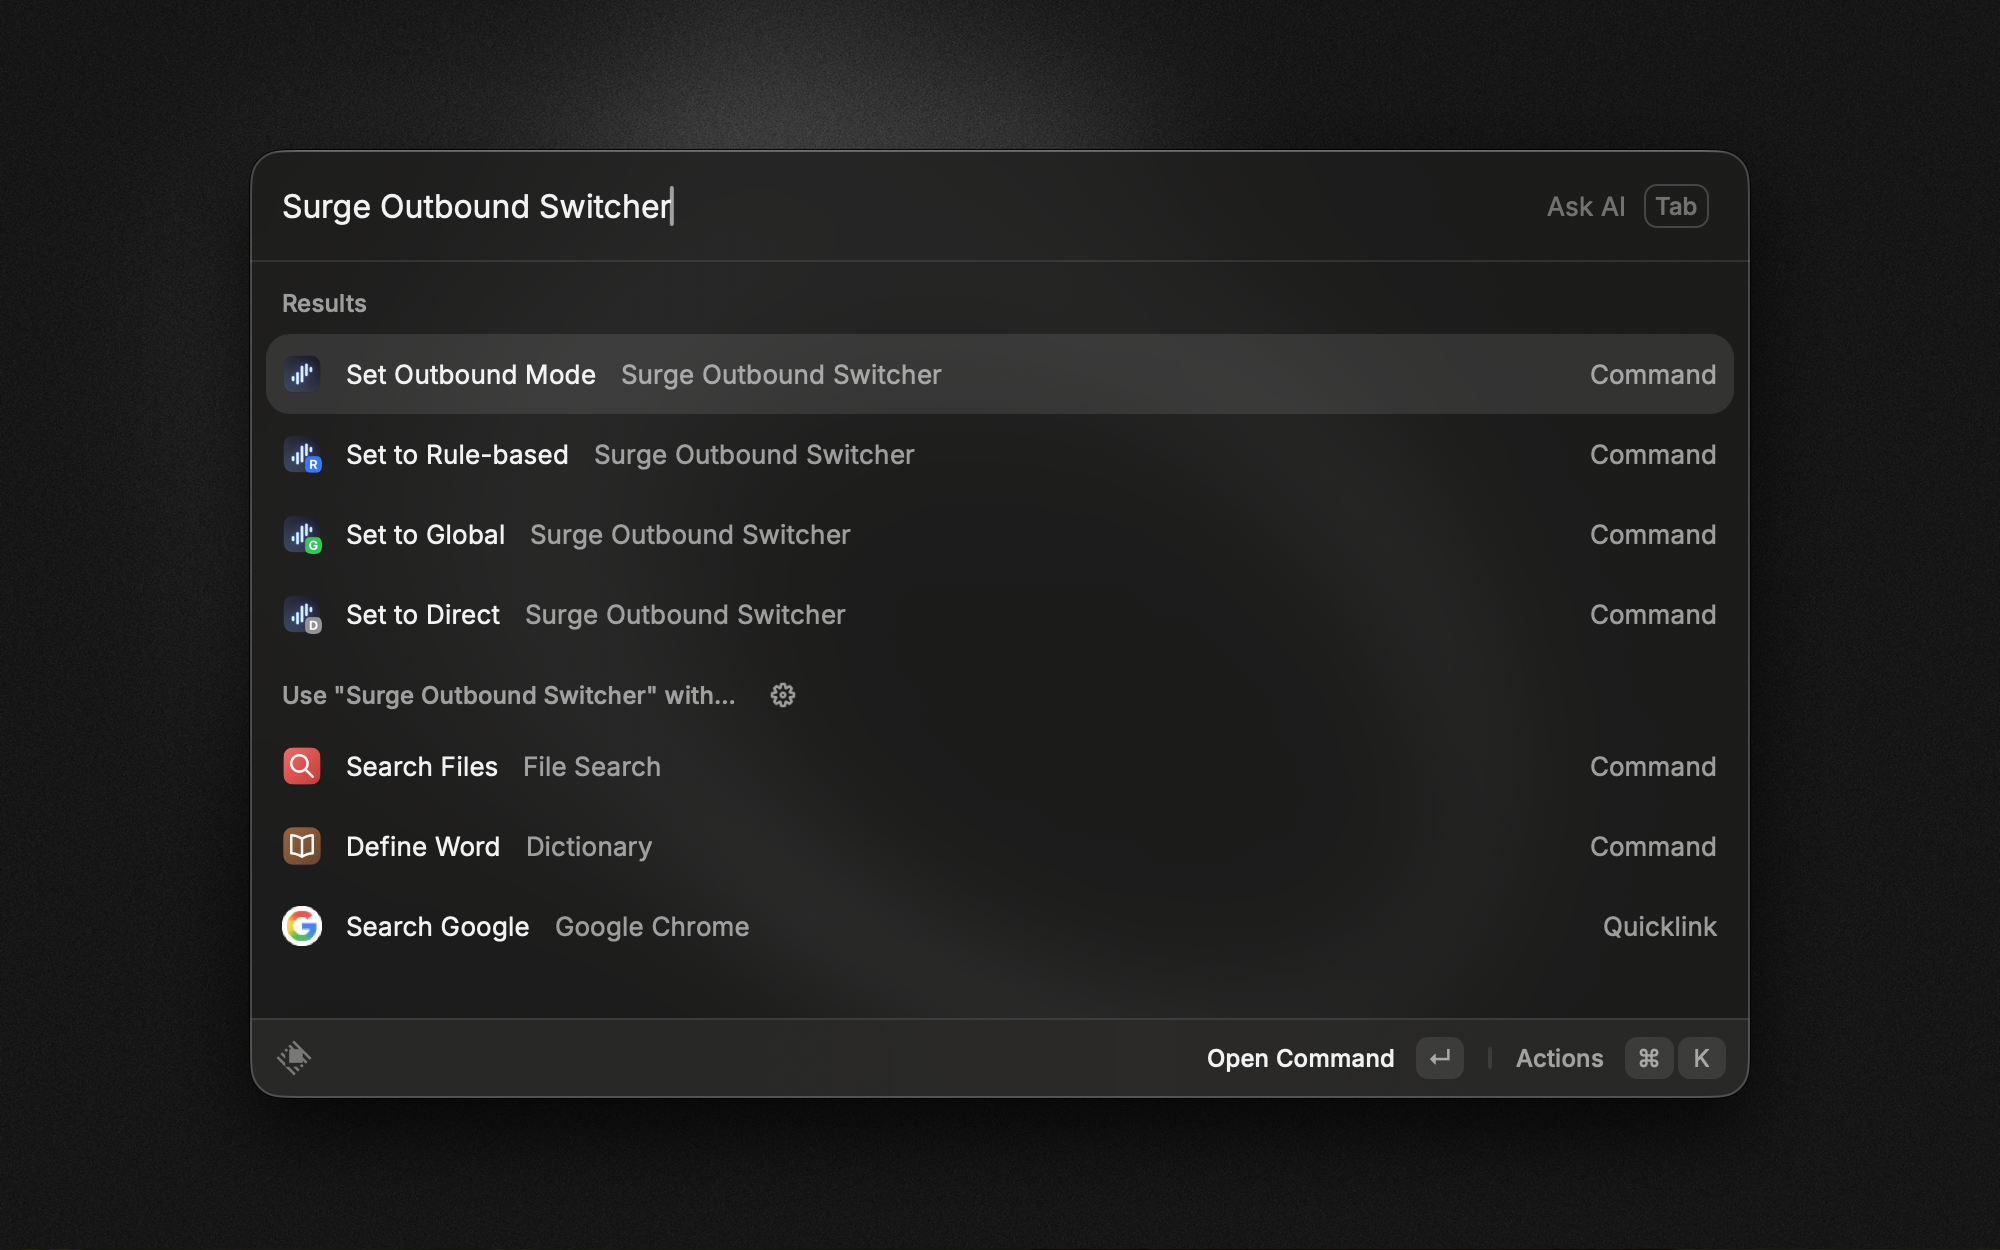
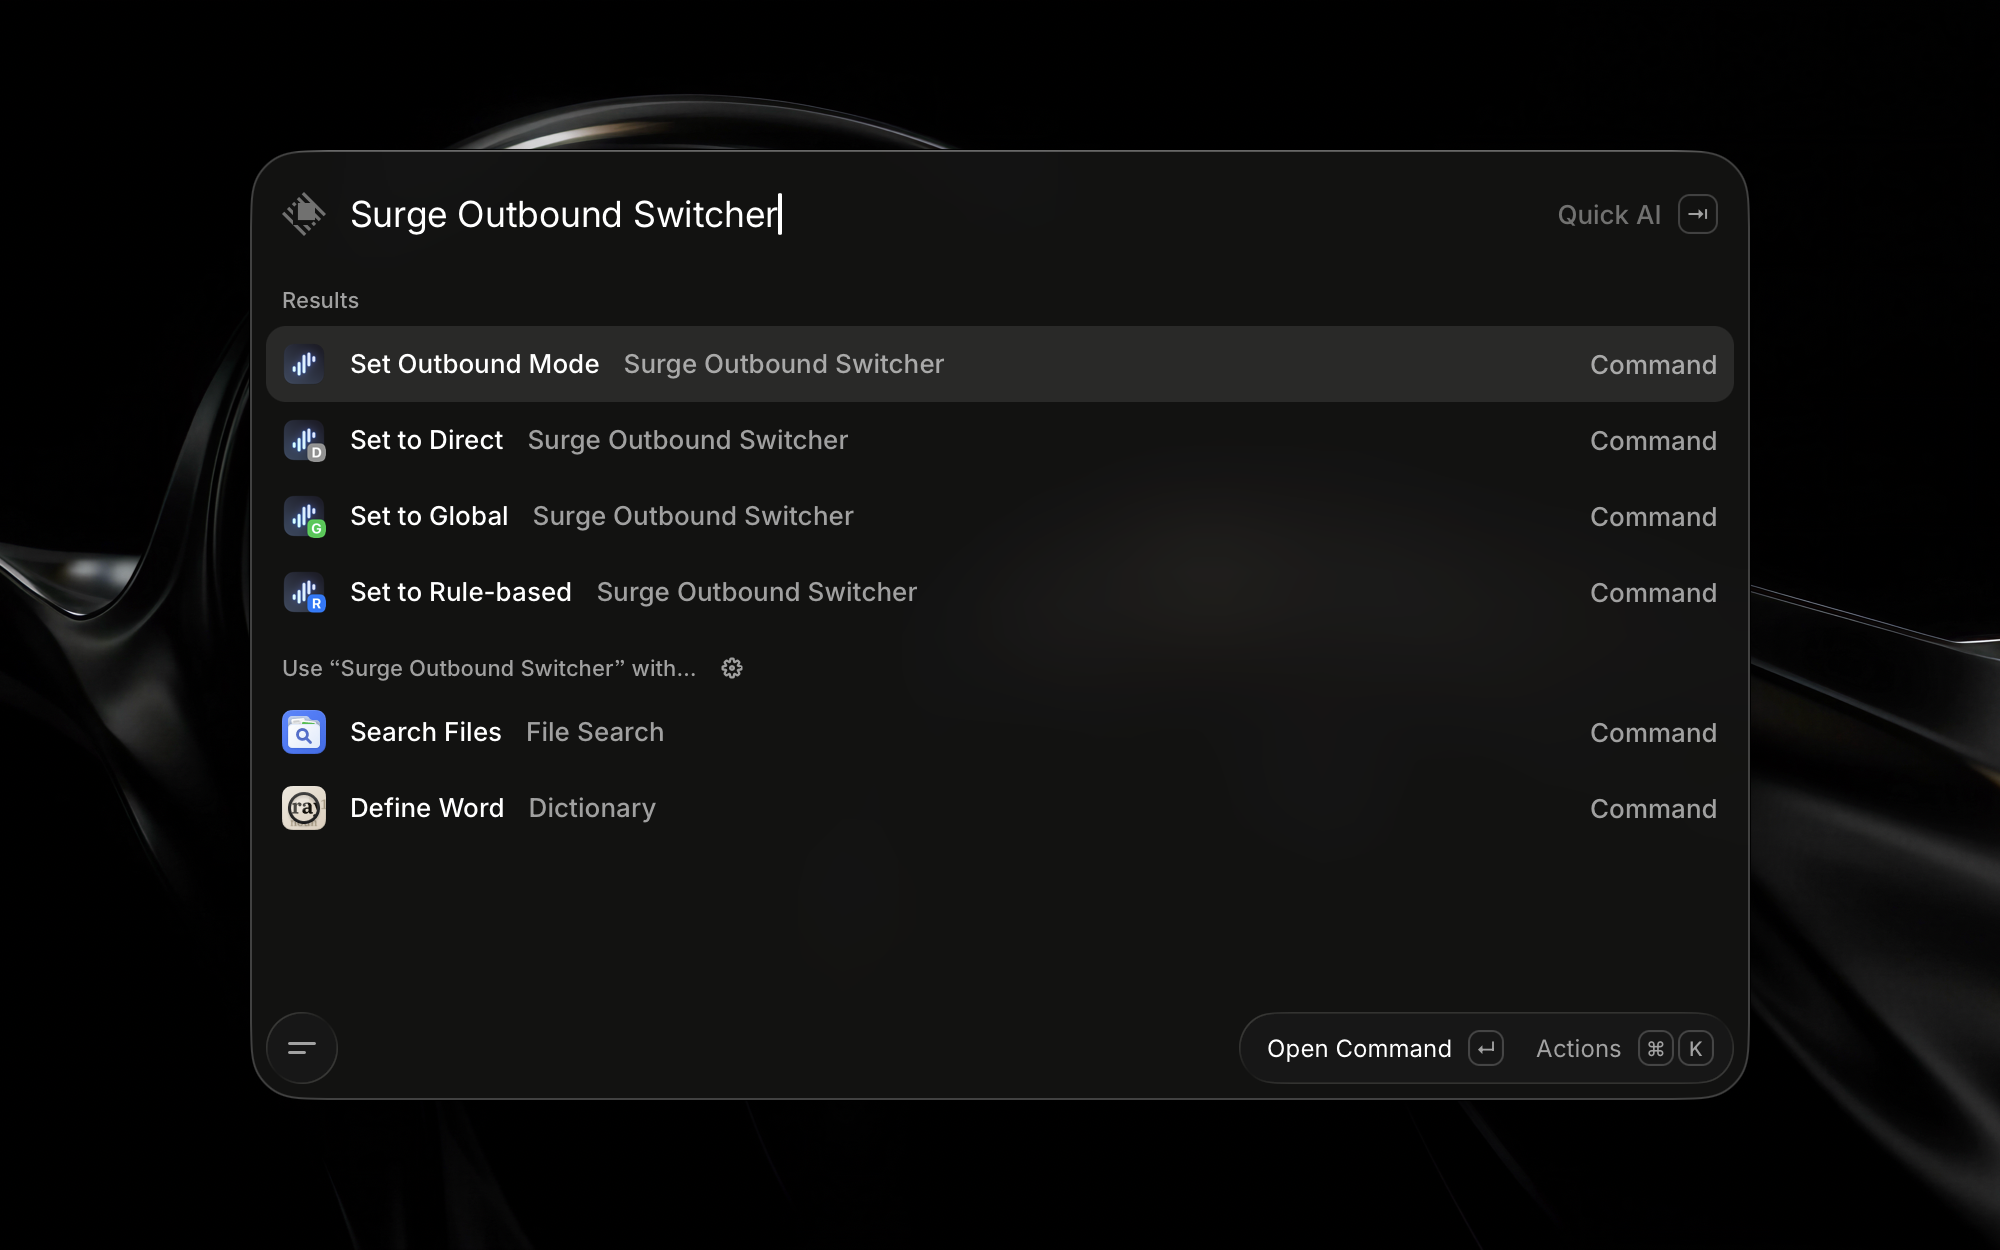
Ext/surge outbound switcher: Updated screenshots to new Raycast (#27956)
* chore(surge-outbound-switcher): update screenshots

* docs(surge-outbound-switcher): update changelog

* Update CHANGELOG.md and optimise images

---------

diff --git a/extensions/surge-outbound-switcher/CHANGELOG.md b/extensions/surge-outbound-switcher/CHANGELOG.md
@@ -1,5 +1,9 @@
 # Surge Outbound Mode Switcher Changelog
 
+## [Chore] - 2026-05-16
+
+- Updated screenshots to new Raycast
+
 ## [Chore] - 2025-09-30
 
 - Fixed the screenshot in README